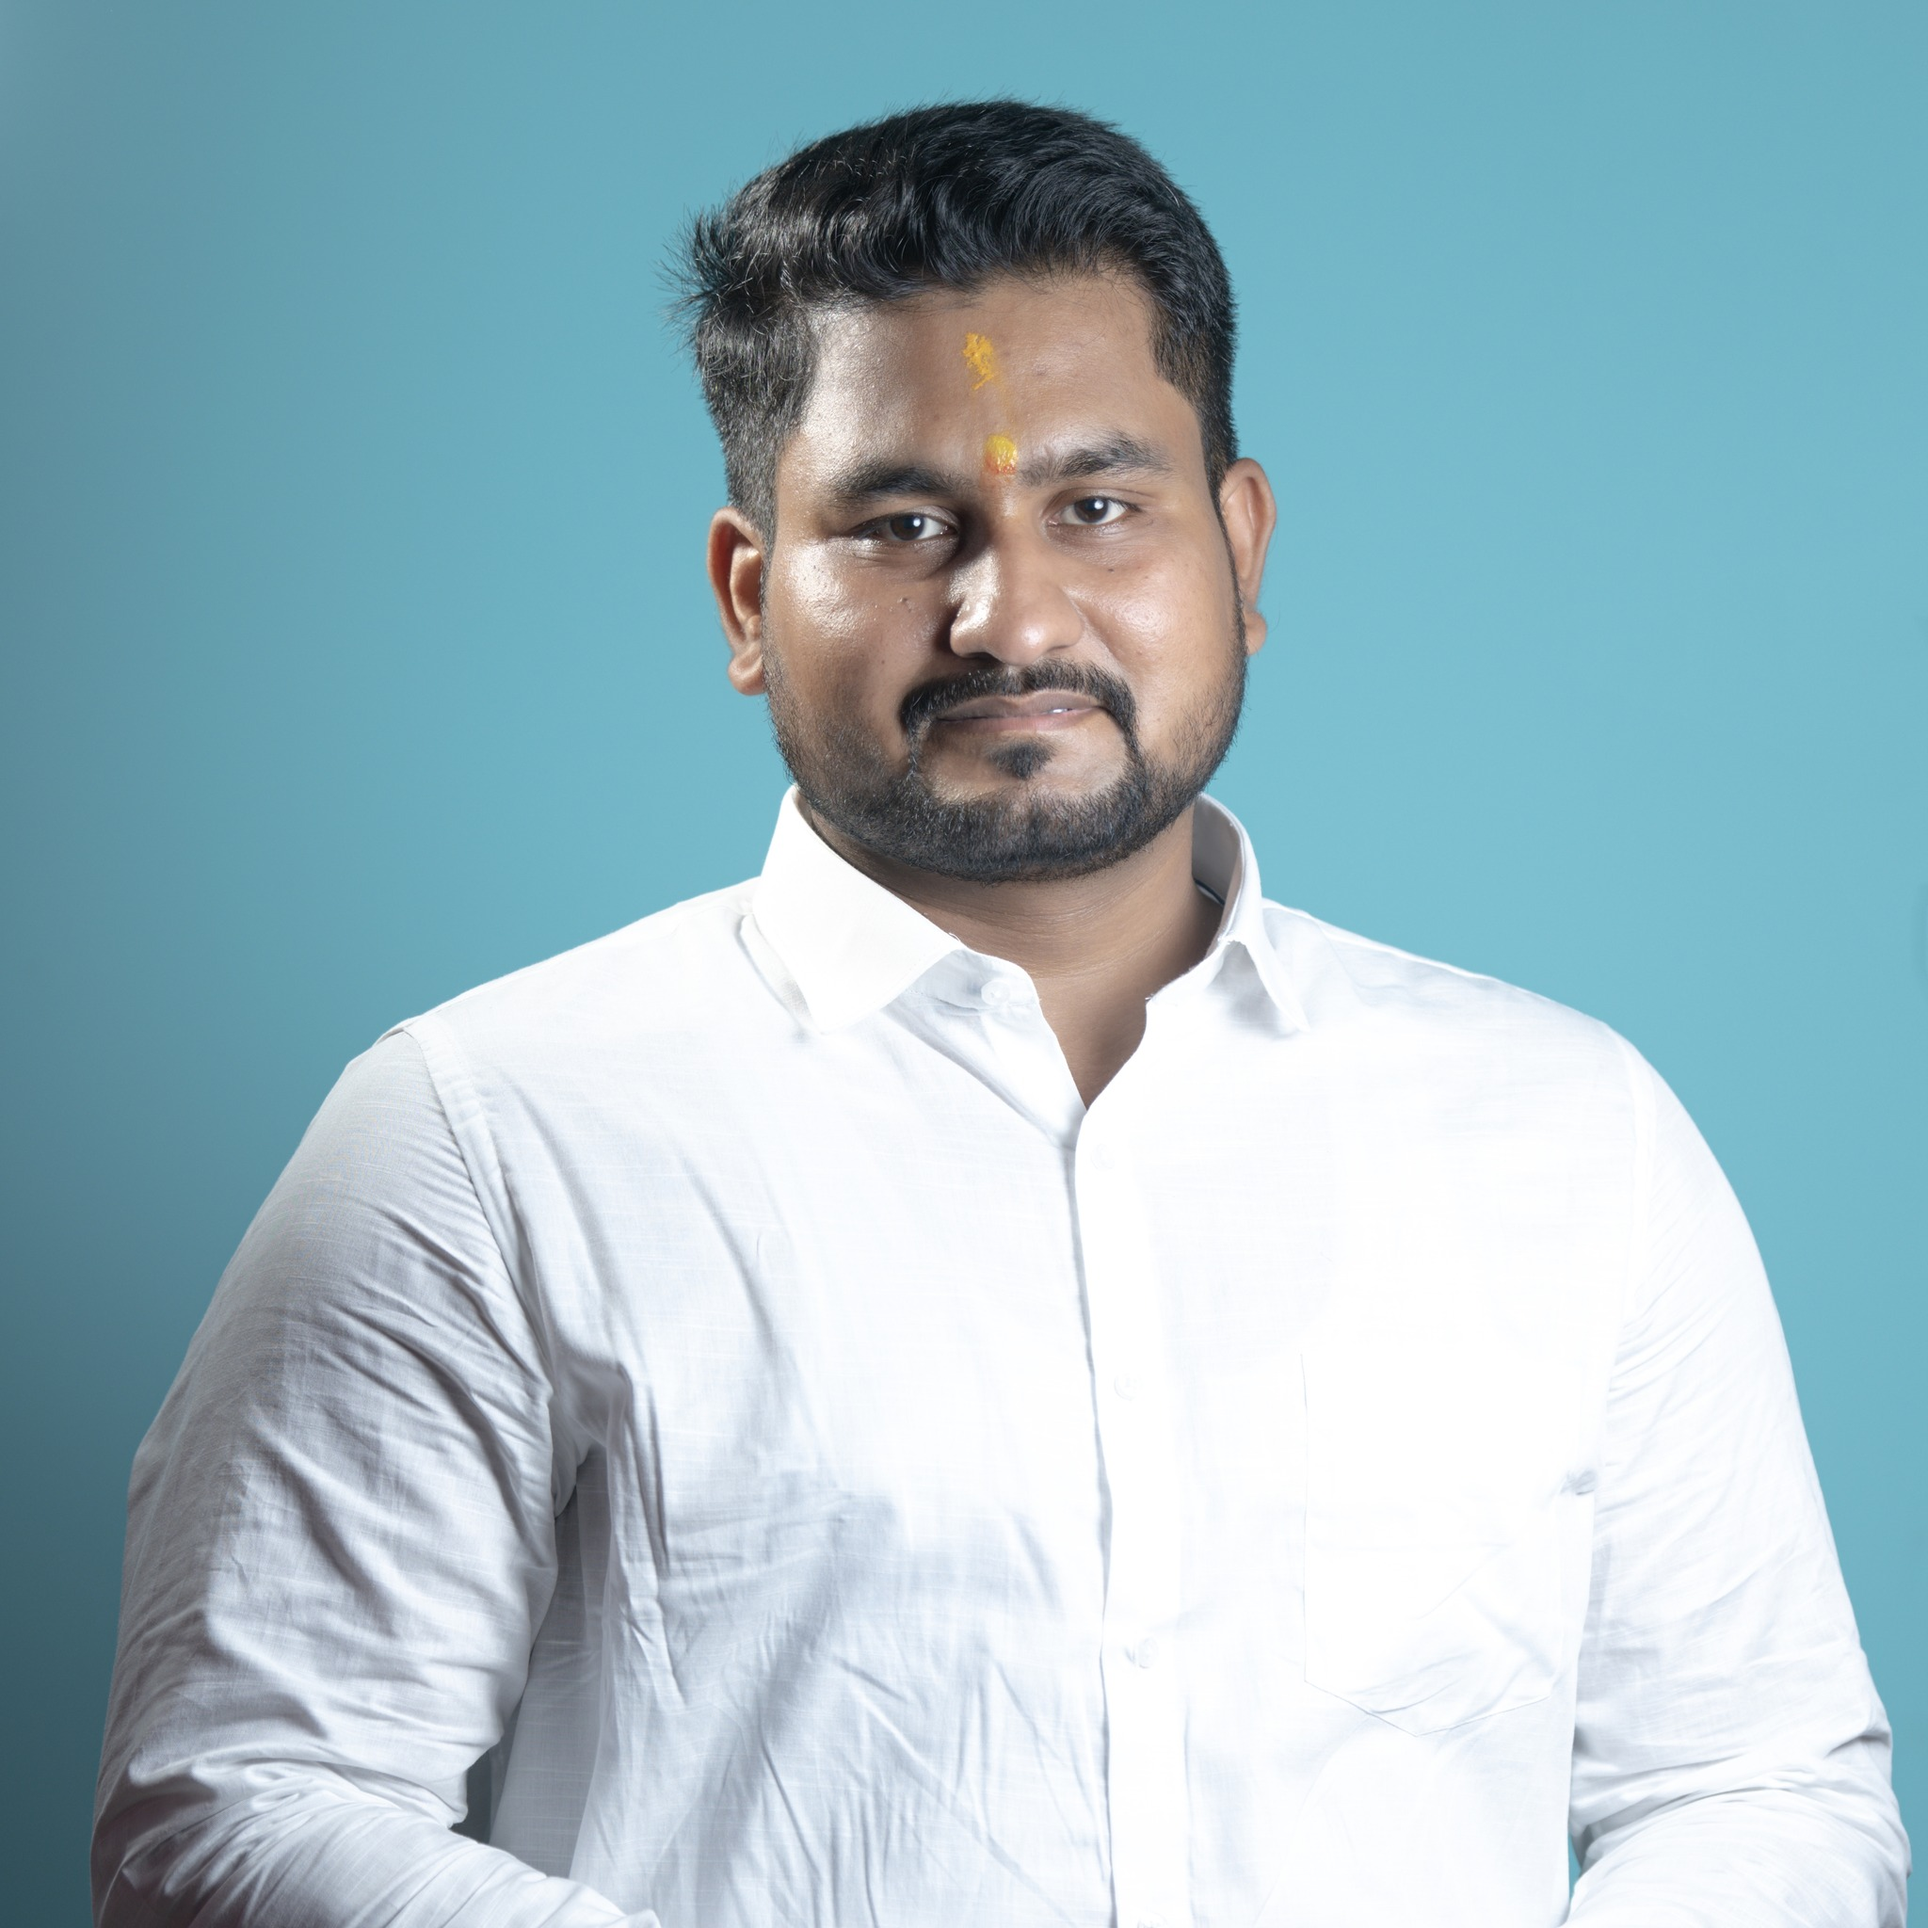
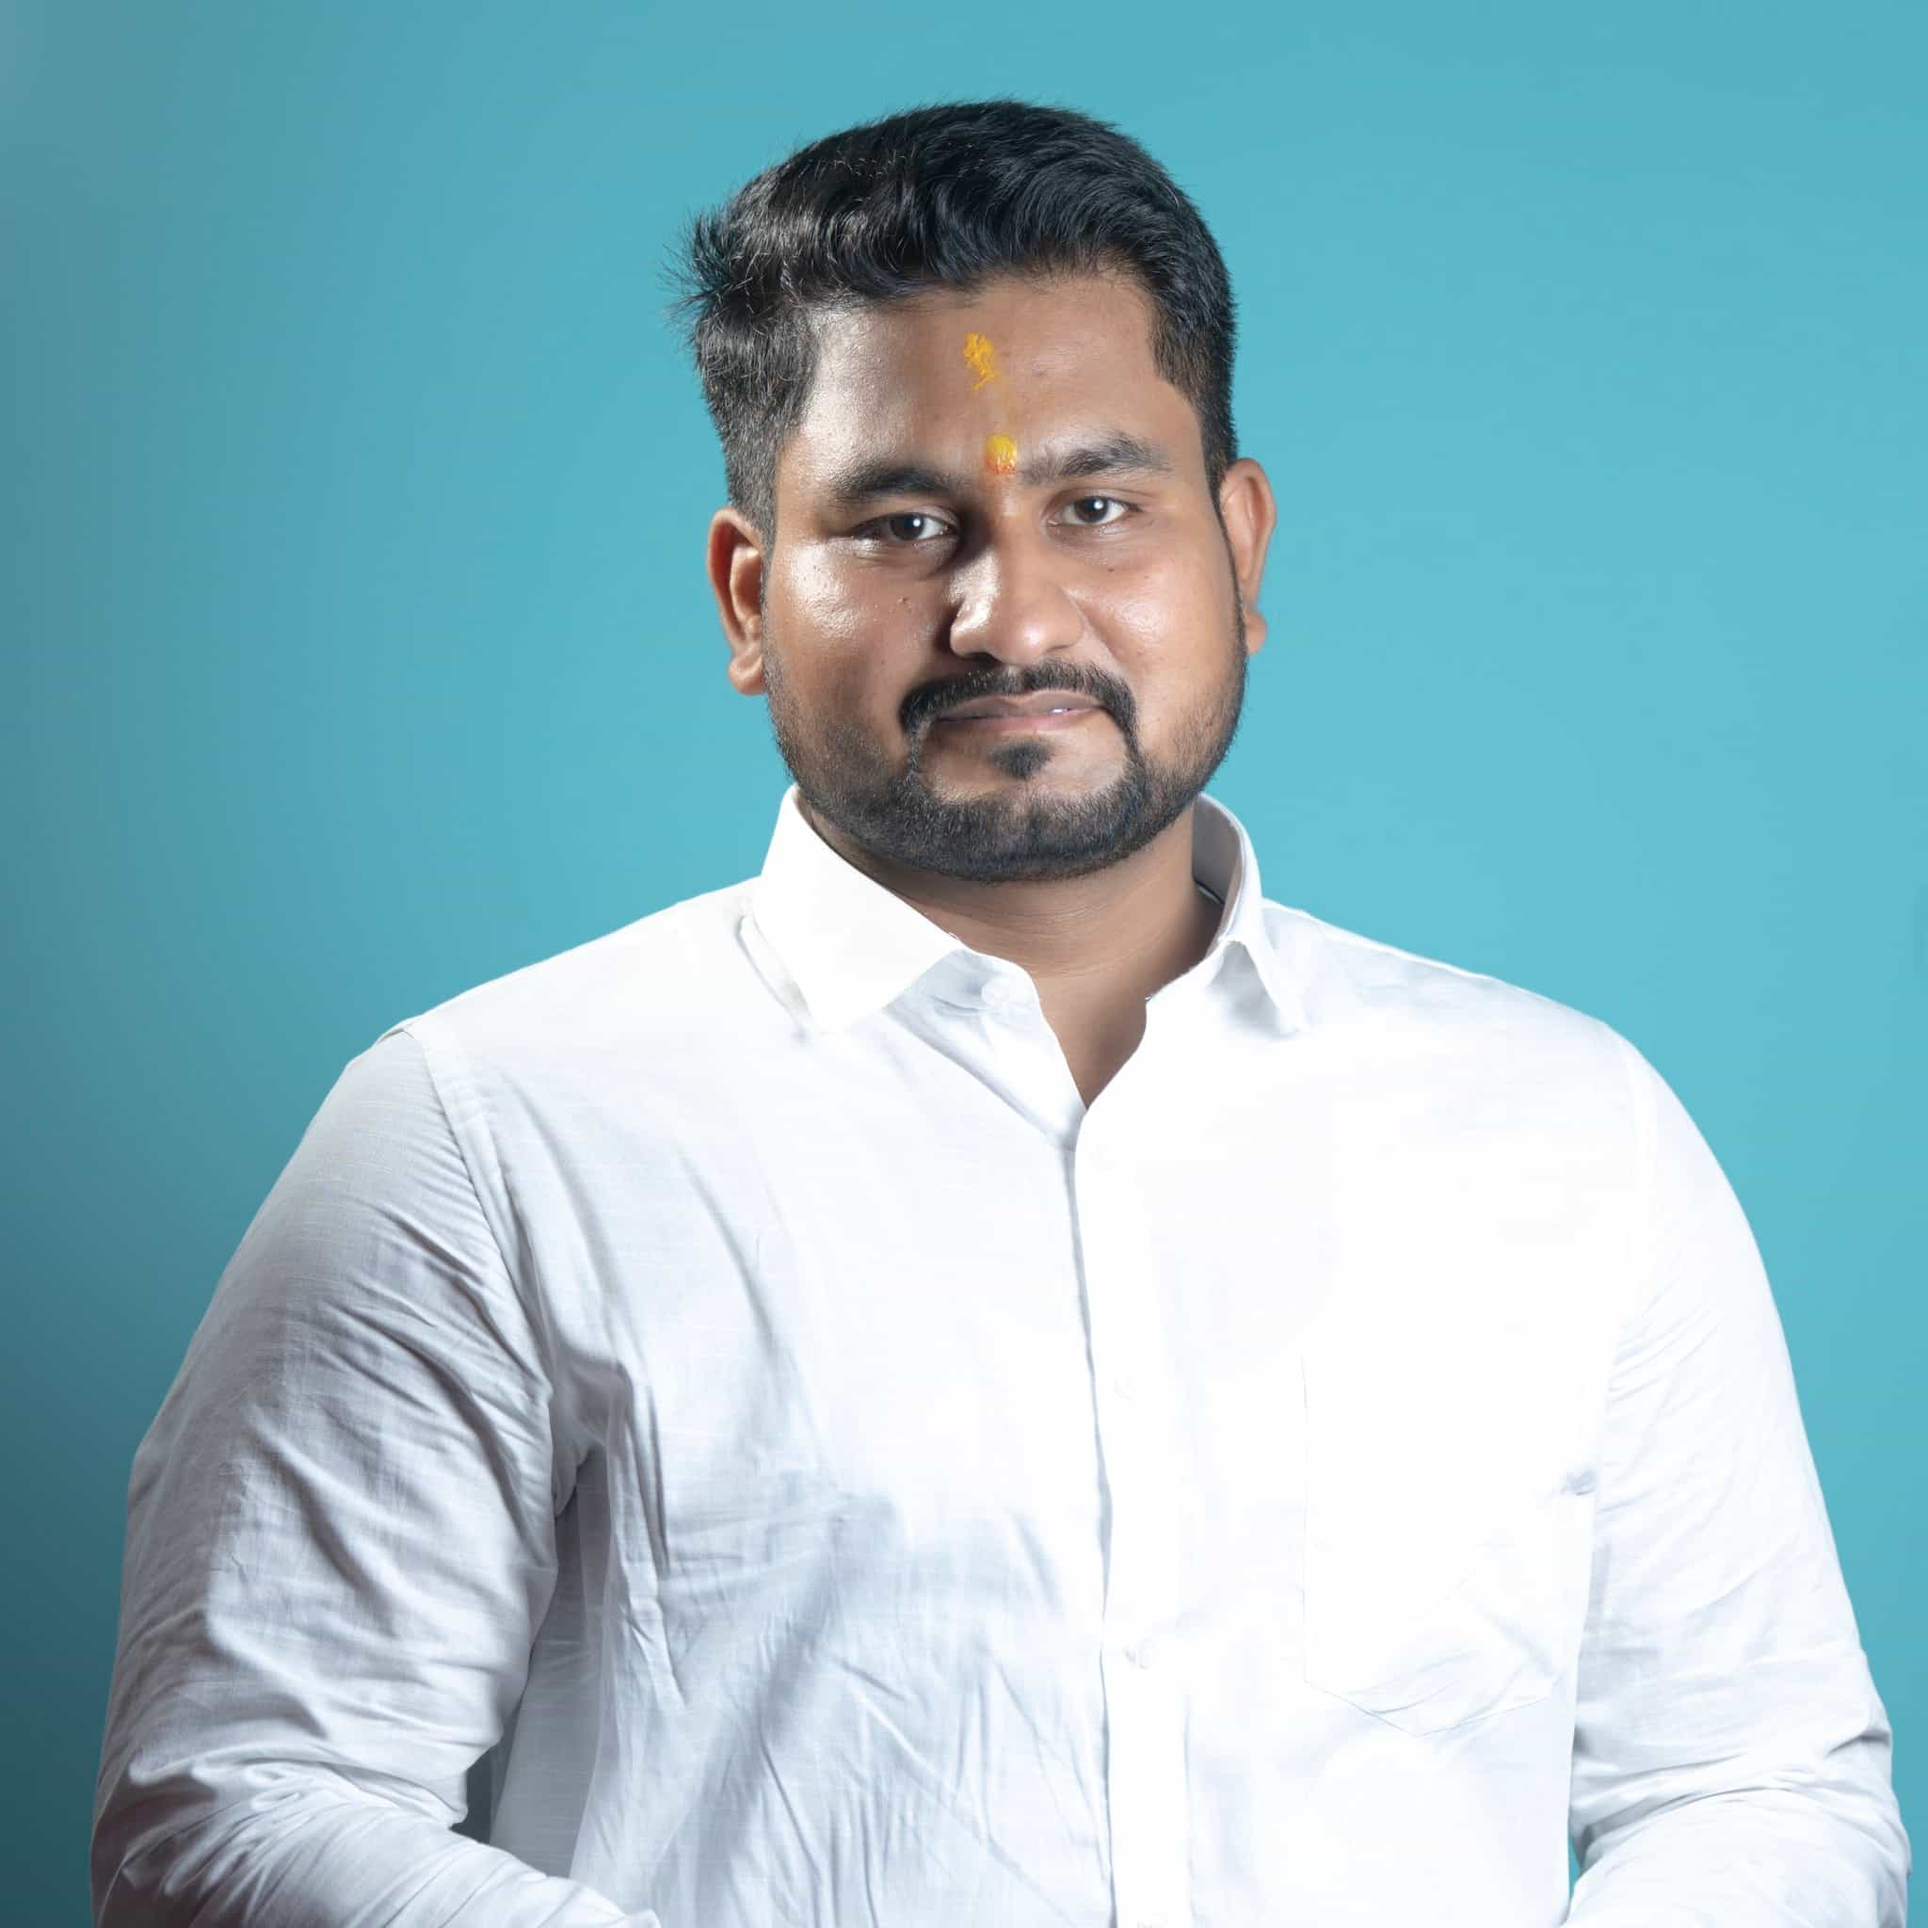
feat: enhance image loading with responsive sizes in Hero component and update multiple gallery images

diff --git a/components/Hero.tsx b/components/Hero.tsx
@@ -62,7 +62,7 @@ export default function Hero() {
           <div className="order-1 lg:order-2 flex justify-center lg:justify-end">
             <div className="relative">
               <div className="relative w-64 h-80 sm:w-80 sm:h-96 lg:w-[22rem] lg:h-[28rem] rounded-2xl overflow-hidden shadow-xl">
-                <Image src="/profile.jpg" alt={`${h.nameFirst} ${h.nameLast}`} fill className="object-cover" />
+                <Image src="/profile.jpg" alt={`${h.nameFirst} ${h.nameLast}`} fill sizes="(max-width: 640px) 256px, (max-width: 1024px) 320px, 352px" className="object-cover" />
               </div>
               <div className="absolute -bottom-3 -right-3 w-full h-full rounded-2xl border-2 border-gold/15 -z-10" />
             </div>
